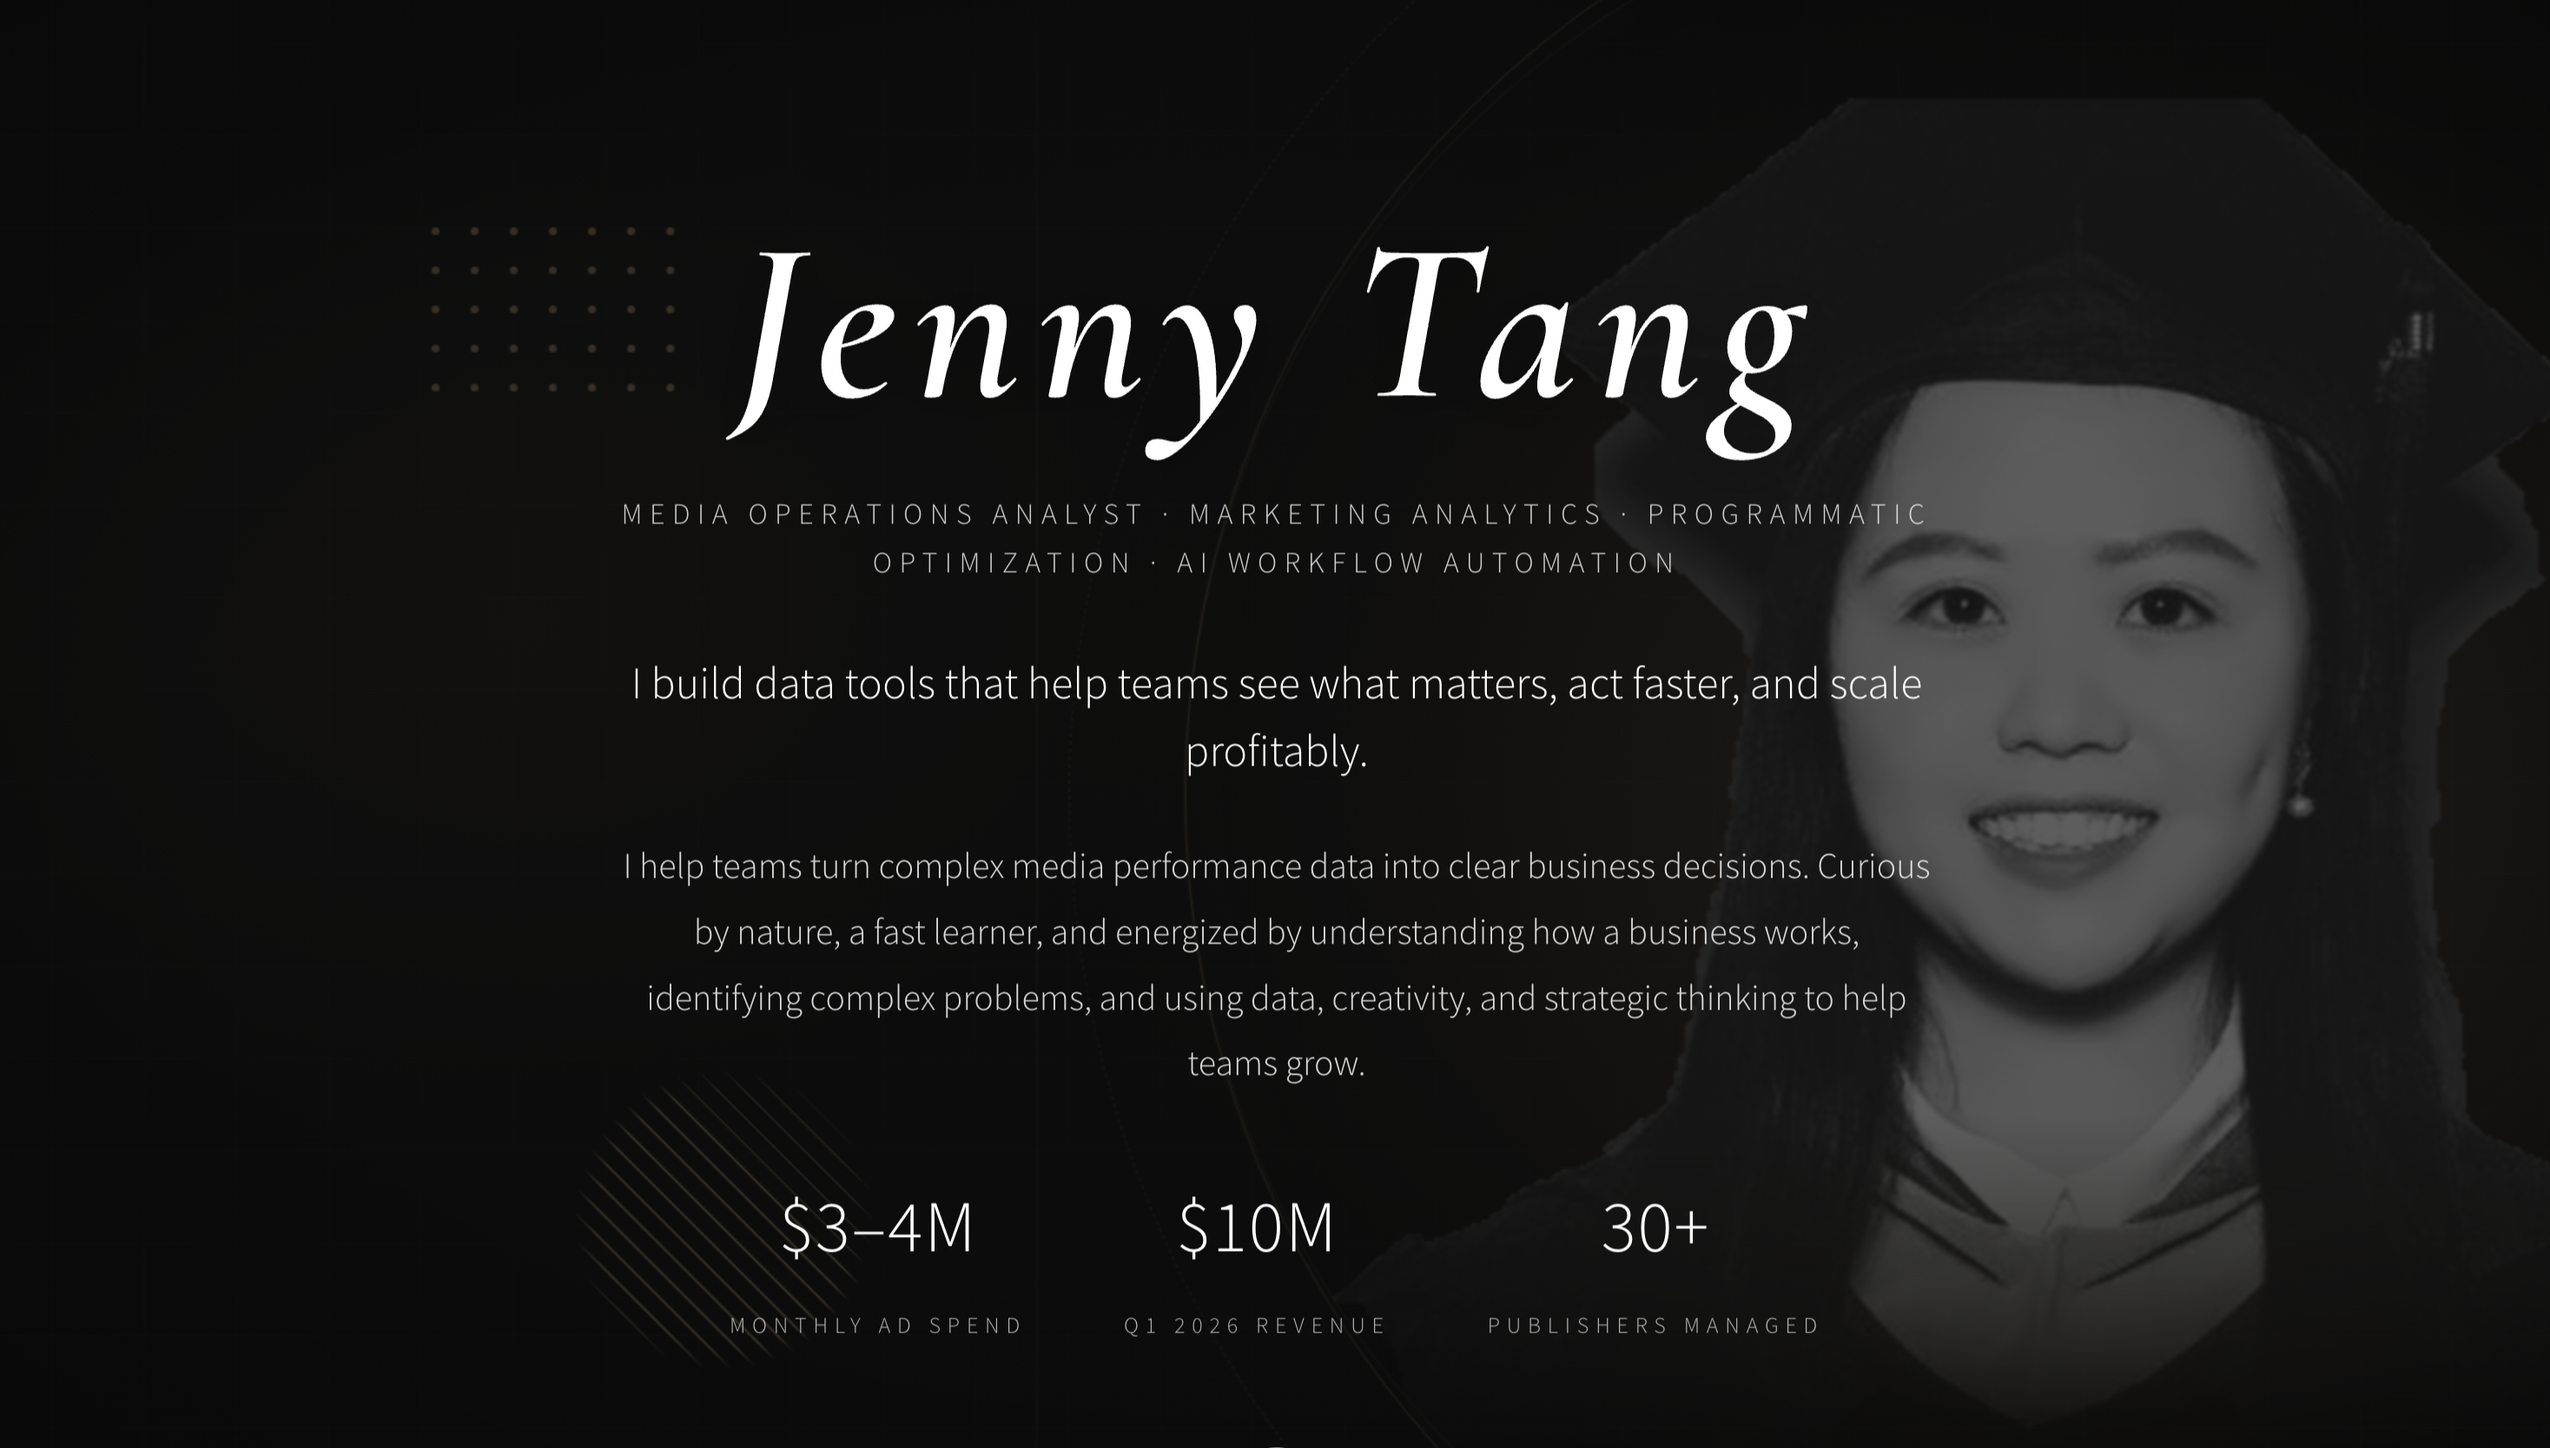
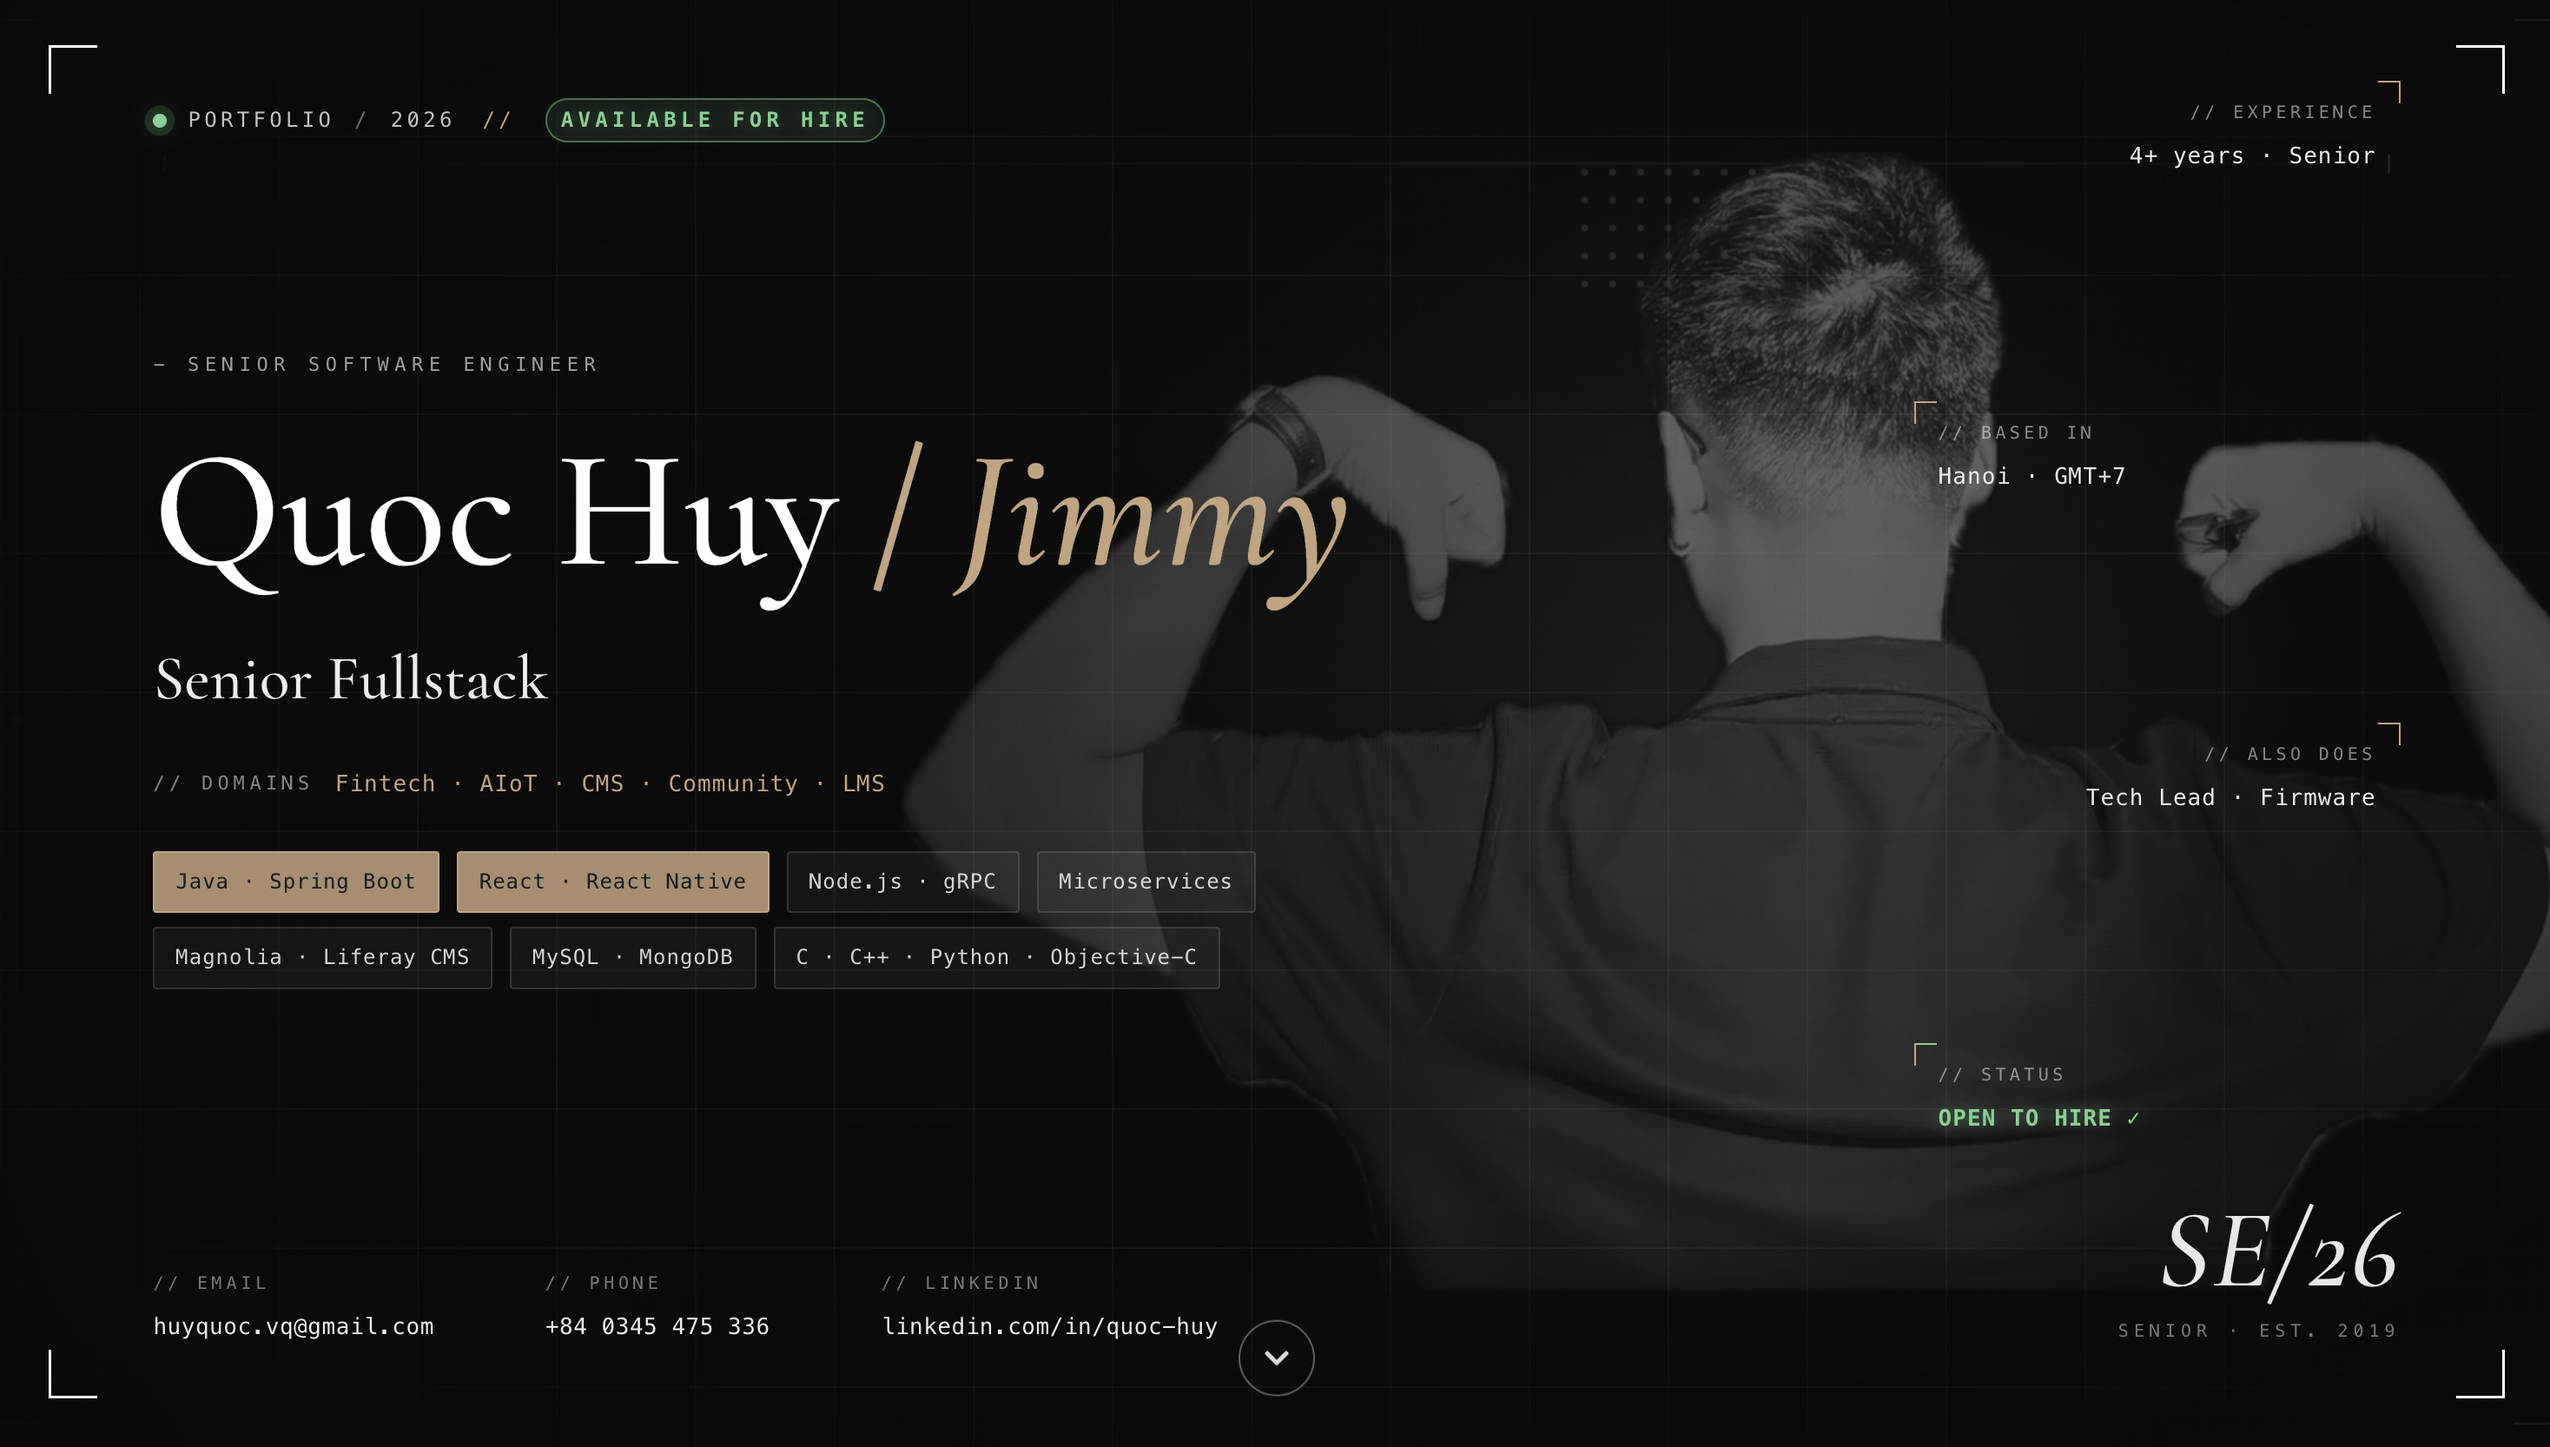
fix image

diff --git a/index.html b/index.html
@@ -9,11 +9,9 @@
       social crawlers (LinkedIn, Facebook, Slack, iMessage, WhatsApp) DO NOT run
       JavaScript and DO NOT respect relative paths.
 
-      The placeholder host `https://jennytangmarketingportpolio.com` is left in
-      place from the original portfolio. Before deploying to a new domain,
-      search-and-replace EVERY occurrence with your real production origin, e.g.:
-
-        sed -i '' 's|https://jennytangmarketingportpolio.com|https://YOUR-DOMAIN|g' index.html
+      The canonical production origin is `https://www.jimmyvu.info`.
+      The apex domain `https://jimmyvu.info` redirects to the www host in
+      vercel.json so either shared URL exposes the same preview metadata.
 
       Then re-build and re-scrape via:
         - LinkedIn Post Inspector: https://www.linkedin.com/post-inspector/
@@ -30,19 +28,19 @@
     <meta name="author" content="Quoc Huy (Jimmy)" />
     <meta name="theme-color" content="#1a1a1a" />
 
-    <link rel="canonical" href="https://jennytangmarketingportpolio.com/" />
+    <link rel="canonical" href="https://www.jimmyvu.info/" />
 
     <!-- Open Graph (LinkedIn, Facebook, iMessage, Slack, WhatsApp) -->
     <meta property="og:type" content="website" />
     <meta property="og:site_name" content="Quoc Huy (Jimmy) Portfolio" />
-    <meta property="og:url" content="https://jennytangmarketingportpolio.com/" />
+    <meta property="og:url" content="https://www.jimmyvu.info/" />
     <meta property="og:title" content="Quoc Huy (Jimmy) - Portfolio" />
     <meta
       property="og:description"
       content="Senior Fullstack Software Engineer specializing in CMS platforms, microservices backends, mobile apps, and IoT systems."
     />
-    <meta property="og:image" content="https://jennytangmarketingportpolio.com/og-image.png" />
-    <meta property="og:image:secure_url" content="https://jennytangmarketingportpolio.com/og-image.png" />
+    <meta property="og:image" content="https://www.jimmyvu.info/og-image.png" />
+    <meta property="og:image:secure_url" content="https://www.jimmyvu.info/og-image.png" />
     <meta property="og:image:type" content="image/png" />
     <meta property="og:image:width" content="1200" />
     <meta property="og:image:height" content="630" />
@@ -59,7 +57,7 @@
       name="twitter:description"
       content="Senior Fullstack Software Engineer specializing in CMS platforms, microservices backends, mobile apps, and IoT systems."
     />
-    <meta name="twitter:image" content="https://jennytangmarketingportpolio.com/og-image.png" />
+    <meta name="twitter:image" content="https://www.jimmyvu.info/og-image.png" />
     <meta
       name="twitter:image:alt"
       content="Quoc Huy (Jimmy) - Senior Fullstack Software Engineer portfolio cover"

diff --git a/docs/API_FLOW.md b/docs/API_FLOW.md
@@ -38,12 +38,15 @@ sequenceDiagram
 | `profile.contact.resume` | GET (browser navigation) | `Nav.jsx` | Google Docs resume |
 | `/images/*` | GET | Hero, project heroes, personal masonry | Static assets from `public/images/` |
 | `/favicon/*` | GET | Browser tabs, pinned shortcuts, mobile home-screen icons | Transparent portrait favicon variants from `public/favicon/` |
+| `/og-image.png` | GET | Open Graph / Twitter link previews | Social preview image referenced by absolute metadata URLs in `index.html` |
 | `/banners/<slug>.html` | GET (iframe) | `BannerEmbed` on home cards + `ProjectShell` on detail | Self-contained animated banner per project |
+| `https://jimmyvu.info/*` | 308/301 redirect | Vercel edge routing | Redirects apex traffic to the canonical `https://www.jimmyvu.info/*` host so www and non-www links expose the same metadata |
 
 ### Image asset paths (static files)
 
 | Path | Referenced in |
 |------|----------------|
+| `/og-image.png` | `index.html` Open Graph and Twitter image metadata as `https://www.jimmyvu.info/og-image.png` |
 | `/favicon/favicon.ico`, `/favicon/favicon-16x16.png` … `/favicon/favicon-256x256.png` | `index.html` favicon links for desktop browsers |
 | `/favicon/apple-touch-icon.png`, `/favicon/android-chrome-192x192.png`, `/favicon/android-chrome-512x512.png`, `/favicon/site.webmanifest` | `index.html` mobile and PWA icon metadata |
 | `/images/hero-banners/hero_*.png` | `Hero.jsx` - art-directed variants (mobile portrait, mobile landscape, tablet, MacBook 13, FHD, QHD, 4K, ultrawide). WebP wiring is in place but disabled by default. |
@@ -108,6 +111,10 @@ To add a catch-all route, extend `App.jsx`:
 ```
 
 No route loaders, no data fetching on navigation.
+
+## Production link previews
+
+`index.html` hard-codes `https://www.jimmyvu.info/` in `canonical`, `og:url`, `og:image`, and Twitter image tags because social crawlers do not run the React bundle and should not depend on relative asset paths. `vercel.json` redirects the apex host `https://jimmyvu.info/*` to `https://www.jimmyvu.info/*`, so sharing either host gives crawlers the same canonical Open Graph metadata.
 
 ## Hash-based deep linking (home)
 

diff --git a/docs/FULL_DOCUMENTATION.md b/docs/FULL_DOCUMENTATION.md
@@ -178,6 +178,7 @@ Files copied verbatim to build output root. Image URLs start with `/images/`. Ba
 | `public/images/hero-banners/` | 8 responsive hero variants (`hero_*.webp` + `.png`) consumed by `<picture>` in `Hero.jsx` |
 | `public/images/` | Project preview JPEGs, personal masonry photos, agent screenshots |
 | `public/favicon/` | Transparent portrait favicon set: ICO, desktop PNG sizes, Apple touch icon, Android Chrome PNG/WebP variants, and `site.webmanifest` |
+| `public/og-image.png` | Social sharing preview image referenced by absolute Open Graph / Twitter URLs in `index.html` |
 | `public/banners/` | Self-contained animated HTML banner per project (canonical source, edit in place) |
 
 ### `/scripts`
@@ -595,6 +596,8 @@ Content constants live in data files, not a separate `constants.js`.
 | CodePush / OTA | N/A |
 
 **Manual deploy:** `npm run build` → upload `dist/` to static host (e.g. GitHub Pages).
+
+**Production metadata:** `index.html` uses `https://www.jimmyvu.info/` as the canonical site URL and as the origin for `/og-image.png` in Open Graph / Twitter tags. The Vercel config redirects `https://jimmyvu.info/*` to `https://www.jimmyvu.info/*`, so both www and non-www shared links resolve to the same preview metadata.
 
 ---
 
